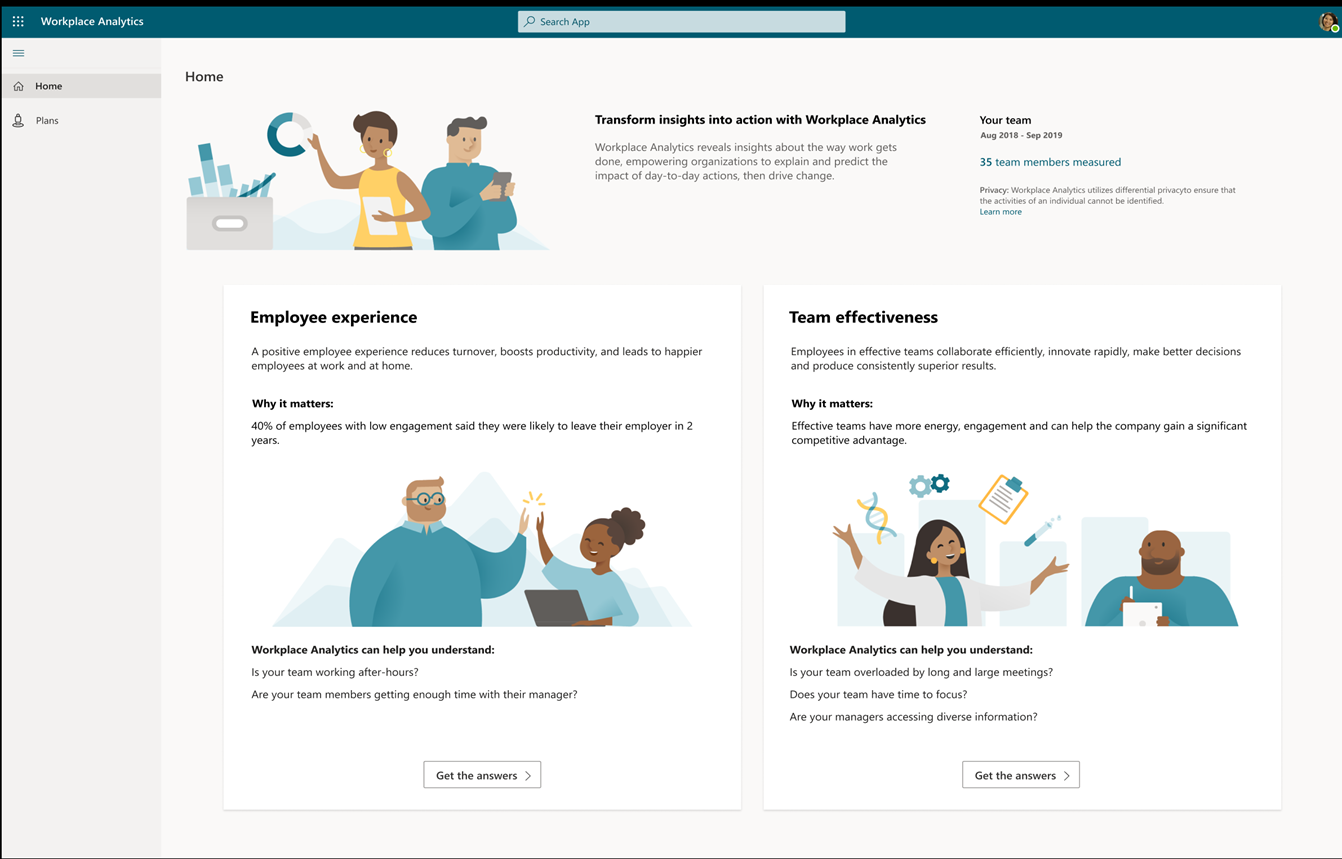
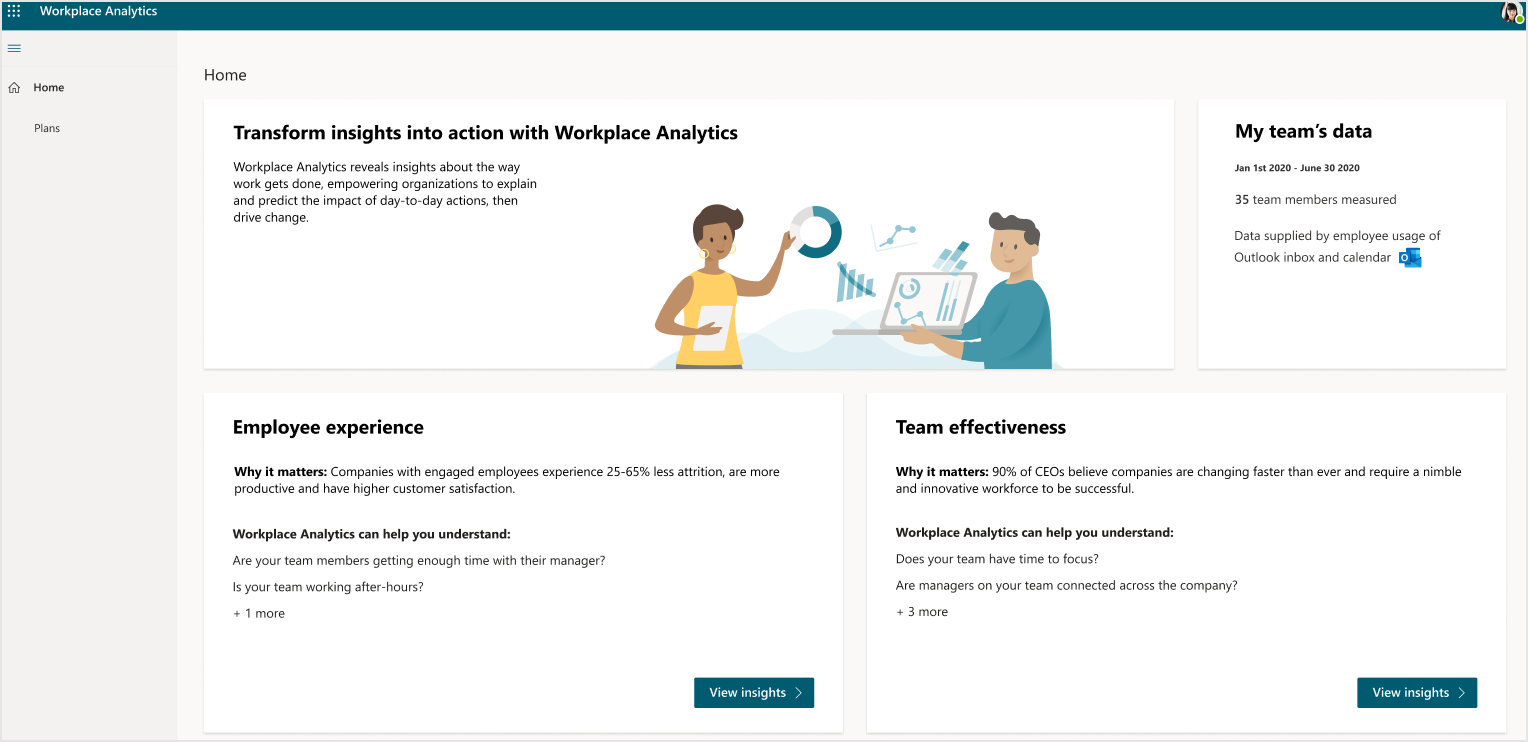
PM Home page changes and unhiding BC doc
per review edits and such

diff --git a/WorkplaceAnalytics/Use/pm-home.md b/WorkplaceAnalytics/Use/pm-home.md
@@ -11,91 +11,67 @@ ms.prod: wpa
 
 # Workplace Analytics Insights for people managers
 
-As a people manager, you can use these **Insights** to see research-based behavioral insights into how your organization gets work done.
+> [!Note]
+> Only managers assigned the **Group manager** role in Workplace Analytics can see these insights.
+
+As a people manager, you can get actionable insights about your team that are based on industry expert research. You can see how your team is currently getting work done and get suggestions on maintaining employee engagement, improving team collaboration, and increasing organizational agility.
+
+The following is available to help you lead your team toward more effective business outcomes:
+
+* **Employee experience** - Research shows that happy employees help boost productivity and reduce turnover. These insights and suggestions can help you maintain positive employee experiences, such as evaluating how much time your team is working after hours on email or instant messages, and if your team is getting enough 1:1 time with you and other managers.
+
+* **Team effectiveness** - Nimble companies can more efficiently adapt to market changes and gain a true competitive advantage. The insights in this section show if your team has time to collaborate for rapid innovation, and to focus and produce higher quality work.
+
+* **My team's data** - Only shows data about your team, which is based on your assigned group-manager role in Workplace Analytics. Your team data includes employees who you directly or indirectly manage within your defined organizational group. The date range shows you the most recent [Organizational data](organizational-data.md) that's been uploaded to and processed in Workplace Analytics, including the current date range and the number of *measured employees* in your team. Your Workplace Analytics admin can give you more details about uploads and measured employees.
 
 ![People Manager Home page](../images/wpa/use/pm-home.png)
 
-## Analysis scope
+## Supporting evidence and Best practices
 
-The top right of the page shows who is included in this analysis. This data is based on the most recent organizational data uploaded to and processed in Workplace Analytics, which includes the current date range and the number of measured employees in your team. For more details about uploads and measured employees, see [Organizational data](organizational-data.md).
+Each insight includes **Supporting evidence** and **Best practices** that link you to related information, such as [Microsoft Workplace Insights](https://insights.office.com/), which are authored by:
 
-## Employee experience
-
-A positive employee experience reduces turnover, boosts productivity, and leads to happier employees.
-
-For example, are employees routinely getting one-on-one time with their managers? Research shows that employees who get consistent manager coaching are five times more likely to stay engaged, which leads to increased productivity and greater employee retainment.
-
-![Employee experience](../images/wpa/use/pm-employee-exp.png)
-
-## Organizational agility
-
-Nimble teams can efficiently adapt to market changes and gain a true competitive advantage.
-
-For example, do your employees have time to focus on their work? Research shows that employees who have time to focus on deep work can master difficult tasks and produce higher quality work.
-<!--
-![Organizational agility](../images/wpa/use/org-agility.png)-->
-
-## Supporting evidence
-
-Each insight includes **Supporting evidence** that links you to a related article at [Microsoft Workplace Insights](https://insights.office.com/). These articles are authored by:
-
-* Industry experts based on research.
-* Organizations that have effectively used Workplace Analytics to improve their business outcomes.
-
-## Teams like yours
-
-Teams like yours provides managers with a benchmark to compare your team to another similar group within the organization. Use these insights to determine where your team is excelling and which behaviors to improve upon.
-
-The following describes how the metrics are calculated to support the behavioral insights shown in the middle section for each business insight question about teams that are similar to yours, as shown to the right of each business insight question.
-
-|Question |Metric name | Metric definition |
-|---------|------------|-------------------|
-|Is your team getting enough time with you? |Manager coaching hours 1:1 |The total number of hours that a manager spends in one-on-one meetings with *all* of their direct reports. |
-|Are employees finding time to recharge?  | After-hours collaboration |Number of hours the person spent in meetings and on email outside of working hours. **Note**: To target or filter for after-hours collaboration, you can use a filter with the Collaboration hours metric. |
-|Are your employees overloaded by long and large meetings? |Meeting hours | Number of meeting hours the time investor group has spent meeting with the collaborator group. |
-|Do your employees have time to focus?  |Focus hours |Total number of hours with two or more one-hour blocks of time where the person had no meetings. |
-|Are you accessing diverse information? | Networking outside organization |Number of departments outside their own that a person had meaningful interactions with, within the last 28 days (or if reported by month, within the last month). |
-|Are your employees overloaded by emails? |Email hours |Number of hours the person spent sending and receiving emails. |
-|Are your employees communicating efficiently? | Average weekly 1:1 emails |Number of emails the person sent to one individual. |
-|How is the customer collaboration in your team? |TKTK |TKTK |  
-|Are your employees building customer networks? |Influence |A numeric score indicating how well connected a person is within the overall company. The higher the score, the more well connected a person is with the potential to drive change. |
+* Industry experts based on research
+* Organizations that have effectively used Workplace Analytics to improve their business outcomes
 
 ## Differential privacy
 
 Differential privacy is a technology that allows researchers and analysts to pull useful information from databases containing personal information while simultaneously protecting individual privacy. This is achieved by introducing slight variations to the data to protect privacy while still maintaining accuracy, so managers have confidence in the observed values.
 
-To learn more about differential privacy, read [Differential Privacy for Everyone](https://download.microsoft.com/download/D/1/F/D1F0DFF5-8BA9-4BDF-8924-7816932F6825/Differential_Privacy_for_Everyone.pdf).
+To learn more about differential privacy, see [Differential Privacy for Everyone](https://download.microsoft.com/download/D/1/F/D1F0DFF5-8BA9-4BDF-8924-7816932F6825/Differential_Privacy_for_Everyone.pdf).
 
 ## View recommended plan
 
-As people manager, you'll also see an option to **View recommended plan** for each business insight. You can use this option to take immediate action for the groups listed in that specific insight. For more details about creating plans, see [Create a plan](../tutorials/solutionsv2-task.md#create-a-plan).
+As a people manager, you'll also see an option to **View recommended plan** for each business insight. You can use this option to take immediate action for the groups listed in that specific insight. For more details about creating plans, see [Create a plan](../tutorials/solutionsv2-task.md#create-a-plan).
 
-## About the metrics
+## About the insights
 
-The following describes the metrics used in each of the business insight questions.
+The following describes how your team metrics are calculated to support the behavioral insights for each of the business insight questions. The metrics for **Teams like yours** shows benchmark averages about similar groups within the organization to compare with your team's metrics. These insights show where your team is excelling, and where you could lead change or improve upon.
 
-|Question |Metric description  |
-|---------|--------------------|
-|Are employees finding time to recharge? |The number of employees that spend greater than one hour outside of their designated work hours in meetings and email each week, divided by the total number of measured employees. |
-|Are your employees overloaded by long and large meetings? |The number of employees that spend over 50 percent of their total meeting time in long or large meetings, divided by the total number of measured employees. |
-|Are your employees getting enough time with their manager? |The number of employees who have fewer than 15 minutes of 1:1 time with their manager each week (based on the total 1:1 time in the month), divided by the total number of measured employees. |
-|Do employees have time to focus? |The number of employees who have less than 20 hours each of available time for focused work, divided by the total number of measured employees. |
-|Are managers accessing diverse information? |The number of managers who had fewer than three meaningful connections outside of their organization each month. |
-|Where are the influencers in your company? |The number of organizations who have fewer than expected numbers of influencers, which are based on thresholds defined for the organization and company size. |
-|Are employees overwhelmed by email? |Employees that spend over 10 hours in email each week. |
-|How is the customer collaboration in your company?    |Groups that spend the highest proportion of their collaboration time externally. |
-|Are employees building customer networks? |Groups that spend time with the most external domain connections. |
+|Business insight question |Team metric description |Metric average for teams like yours |
+|--------------------------|-------------------|-----------------|
+|Is your team getting enough time with you or their manager? |One-on-one time is the number of meeting hours with only an employee and their manager. To account for various meeting frequencies, the total time is calculated for each employee per month and averaged over a week.|The average number of hours that managers spend in one-on-one meetings with *all* of their direct reports. |
+|Are employees working after hours? |After-hours work is the number of hours employees spend in meetings and on email outside of working hours. This uses the working hours set in the employee's Outlook calendar settings. |Average number of total hours a team spent in meetings and on email outside of working hours. **Note**: To target or filter for after-hours collaboration, you can use a filter with the Collaboration hours metric. |
+|Are your employees overwhelmed by email? |Employees that spend over 10 hours in email each week. Email workload is the number of hours employees spend sending and receiving email. |Average number of hours a comparable team spent sending and receiving emails. |
+|Are your employees burdened by long and large meetings? |The number of employees that spend over 50 percent of their total meeting time in long or large meetings, divided by the total number of measured employees. Long meetings are those scheduled for more than an hour. Large meetings are those that involve more than eight people. |Average number of meeting hours the time investor group has spent meeting with the collaborator group for a comparable team. |
+|Do your employees have time to focus? |The number of employees who have less than 20 hours each of available time for focused work, divided by the total number of measured employees. Focus time is when employees have two or more consecutive hours with no meetings. |Average number of total hours with two or more one-hour blocks of time where people on the comparable team had no meetings. |
+|Are you connected across the company? |Manager cross-team connections are the number of departments outside your own that you had meaningful interactions with in the last 28 days. A meaningful interaction is defined as an email or meeting that includes two to five people. |An average number of meaningful connections the manager in the comparable team had outside their team. |
+|Is your team collaborating across the company? |Cross-organization collaboration is the number of hours employees spend in meetings and email with at least one person outside of their own department. This insight highlights the organizations that spend more than 50 percent of their overall collaboration within their group. |Average number of hours the comparable team spent collaborating with people outside their department. |
+|Are influencers present in your team? |Influencers are employees who have the best connections to people across the company based on their collaboration patterns. This insight highlights the organizations that don't have sufficient representation of them, based on company and organization size. |The average numeric score indicates how well connected a person in that team within the overall company. The higher the score, the more well connected that team is with the potential to drive change. |
+|Are employees sharing information quickly? |One-on-one communication is the combination of email and instant messages (IMs) sent between two employees. This insight highlights the employees that spend less than 10 percent of their one-on-one communication over Teams IM. This is calculated as the percentage of one-on-one IMs sent, divided by the total number of one-on-one IMs and emails sent. |Average number of emails people in the comparable team sent to an individual. |
 
 ## Frequently asked questions
 
-### Q1 
+### Q1 How do these Insights accommodate different partitions?
 
-### Q2 
+These insights are only about the participants who are included in the selected partition.
 
-### Q3 
+### Q2 Which roles have access to this home page?
+
+Only managers assigned the **Group manager** role in Workplace Analytics can see insights about their teams.  
 
 ## Related topics
 
+* [User roles in Workplace Analytics](user-roles.md)
 * [Explore the metrics](explore-intro.md)
 * [Plans](../tutorials/solutionsv2-intro.md)
 * [Metric descriptions for Workplace Analytics](metric-definitions.md)

diff --git a/WorkplaceAnalytics/Tutorials/power-bi-bc.md b/WorkplaceAnalytics/Tutorials/power-bi-bc.md
@@ -1,6 +1,5 @@
 ---
 
-ROBOTS: NOINDEX,NOFOLLOW
 title: Power BI Business Continuity Dashboard
 description: Use the Business Continuity Dashboard to visualize predefined query data from Workplace Analytics in Power BI
 author: madehmer
@@ -125,7 +124,7 @@ After changing one or more of the settings in **Settings and scope**, confirm th
 > [!Important]
 > As additional data is processed on a weekly basis, you'll need to adjust the **Selected Time Frame** if you want to view the most recent data.
 
-## About the reports
+## About the dashboard reports
 
 The following dashboard reports directionally highlight where disruptions to ways of working are having the largest impact, and provide a measurable starting point for identifying where leaders can use tools and processes to support employees in a new way of working. All metrics are defined in the Glossary report at the end of the dashboard. An interpretation is provided in the text box of each report. The following describes each report with specific nuances to consider for each.
 
@@ -137,7 +136,7 @@ The following dashboard reports directionally highlight where disruptions to way
 * **How can we foster employee engagement and community?** - Unlike the other reports that show changes between the baseline and the current time frames, ***this report only shows metrics for the current time frame.*** This view enables you to assess if manager 1:1 meetings and organizational collaboration, which are keys to fostering employee engagement and community, are still occurring virtually.
 
   > [!Note]
-  > The metrics for the "How do we foster employee engagement and community?" report are only based on the **Selected time frame** and not on a comparison with the Baseline time frame.
+  > The metrics for the "How do we foster employee engagement and community?" report are only based on the **Selected time frame** and not on a comparison with the Baseline time frame. Also, these charts are based on small group meetings of less than eight people and only analyze meeting, call, and instant-message activity, excluding email activity. For more details on metrics, see the **Glossary** in the dashboard.
 
 ### Power BI tips
 

diff --git a/WorkplaceAnalytics/Use/home-page.md b/WorkplaceAnalytics/Use/home-page.md
@@ -79,16 +79,15 @@ The following describes the metrics used in each of the business insight questio
 |Are influencers present across the company? |Influencers are employees who have the best connections to people across the company based on their collaboration patterns. This insight highlights the organizations that don't have sufficient representation of them, based on company and organization size. |
 |Are employees sharing information quickly? |One-on-one communication is the combination of email and instant messages (IMs) sent between two employees. This insight highlights the employees that spend less than 10 percent of their one-on-one communication over Teams IM. This is calculated as the percentage of one-on-one IMs sent, divided by the total number of one-on-one IMs and emails sent. |
 
-
 ## Frequently asked questions
 
-### Q1 How does the home page data accommodate different partitions?
+### Q1 How do these Insights accommodate different partitions?
 
-The home pages show insights only for the participants that are included in the selected partition.
+These insights are only about the participants who are included in the selected partition.
 
-### Q2 Which roles have access to this home page dashboard?
+### Q2 Which roles have access to these insights?
 
-The analyst, limited analyst, and program manager roles can access these home pages. People managers can only see data about their teams, see [Workplace Analytics Home for people managers](pm-home.md) for more details.
+The analyst, limited analyst, and program manager roles can access these pages. People managers can only see insights about and data for their specific teams, see [Workplace Analytics Home for people managers](pm-home.md) for more details.
 
 ## Related topics
 

diff --git a/WorkplaceAnalytics/Setup/Set-up-Workplace-Analytics.md b/WorkplaceAnalytics/Setup/Set-up-Workplace-Analytics.md
@@ -43,7 +43,7 @@ This article describes the steps that are required to set up and configure Workp
   
 2. **Licenses and roles** - Verify that your Office 365 admin has assigned licenses and roles to people in the organization, and then select **Next**. For more information, see [Assign licenses](assign-licenses-to-population.md) and [Assign roles](assign-roles-to-wpa-admins.md). 
 
-   > [!Note] 
+   > [!Note]
    > On the **Home** page, under **Required to start**, Workplace Analytics admins can see the current number of assigned roles and licenses. They can proceed with setup only if the number of assigned licenses is greater than zero.
 
 3. **System defaults** - Set the time zone, week days, weekend days, and working hours. For more information, see [Workplace Analytics system defaults](../Use/settings.md#system-defaults).

diff --git a/WorkplaceAnalytics/Tutorials/Power-bi-templates.md b/WorkplaceAnalytics/Tutorials/Power-bi-templates.md
@@ -1,12 +1,9 @@
 ---
-# Metadata Sample
-# required metadata
 
 title: Power BI templates
 description: Use a Power BI template to run a query, export its results, and visualize them in Power BI
 author: paul9955
 ms.author: v-midehm
-ms.date: 05/01/2019
 ms.topic: article
 localization_priority: normal 
 ms.prod: wpa
@@ -77,6 +74,7 @@ For example, you can use the following steps to identify areas of collaboration 
 
     ![Results visualized in Power BI](../Images/WpA/tutorials/pbi-templates-08a.png)
 
-## Related topic
+## Related topics
 
-[View, download, and export query results](../use/view-download-and-export-query-results.md)
+* [View, download, and export query results](../use/view-download-and-export-query-results.md)
+* [Power BI Business Continuity Dashboard](../tutorials/power-bi-bc.md)

diff --git a/WorkplaceAnalytics/Use/group-manager-role.md b/WorkplaceAnalytics/Use/group-manager-role.md
@@ -68,7 +68,7 @@ A plan that a GM creates automatically contains the employees of the GM's report
 
 ### Track progress (group manager role)
 
-Once a plan is underway, you can view the **Manage** page to track the plan’s progress. 
+Once a plan is underway, you can view the **Manage** page to track the plan's progress. 
 
 ![Track progress](../images/wpa/tutorials/solutions-track.png) 
 
